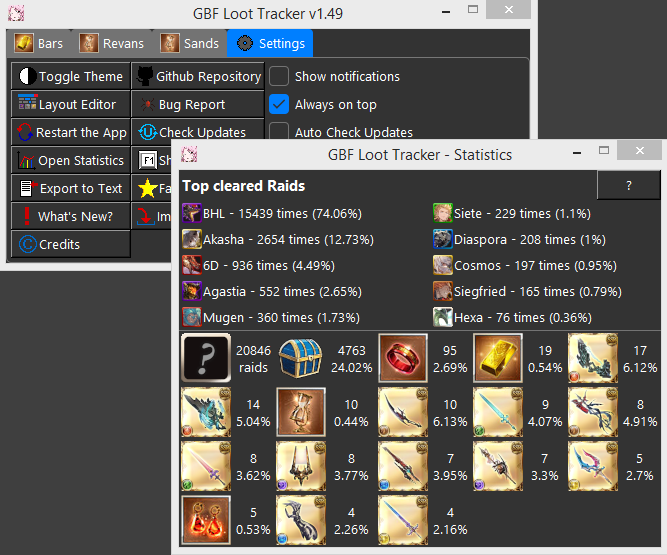
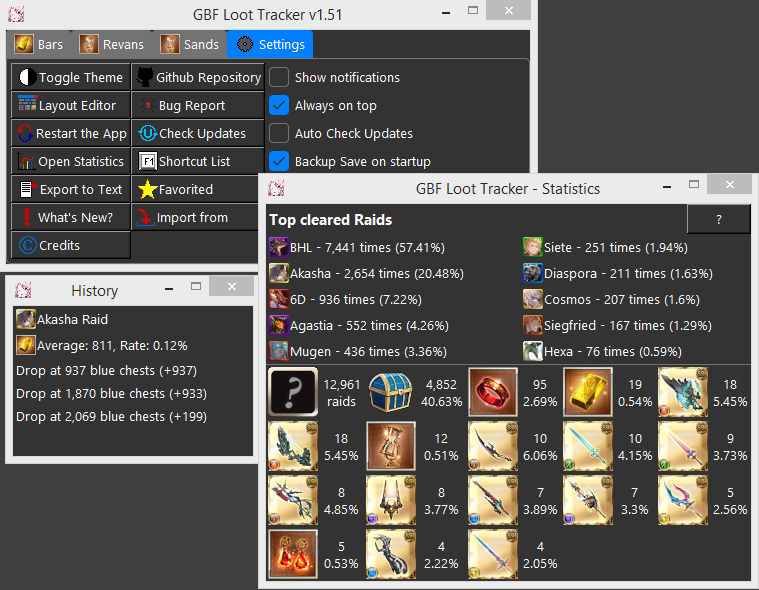
1.51 History Window and Save Backup

diff --git a/readme.md b/readme.md
@@ -67,7 +67,7 @@ If you have ideas that you want to implement or suggest, you can open a pull req
   
 ### Customization  
 The layout is fully editable.  
-Before starting, I recommend to backup `save.json` and `assets/raids.json`, in case you make a very big mistake.  
+Before starting, I recommend to copy/backup `save.json` and `assets/raids.json`, in case you make a very big mistake.  
 There are two ways to edit the `assets/raids.json` files:  
   
 - **The Easier Way:**  
